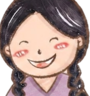
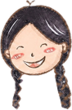
Update site cursor to Jianan's revised face crop
Trims and resizes the newly provided cursor-face.png to a clean 72x110
PNG and re-centers the CSS hotspot to match.

diff --git a/src/app/globals.css b/src/app/globals.css
@@ -27,7 +27,7 @@ body {
   color: var(--foreground);
   font-family: var(--font-lato), Arial, Helvetica, sans-serif;
   position: relative;
-  cursor: url("/cursor-face.png") 45 48, auto;
+  cursor: url("/cursor-face.png") 36 55, auto;
 }
 
 /* Subtle paper-grain texture overlay, tinted toward the lavender theme */
